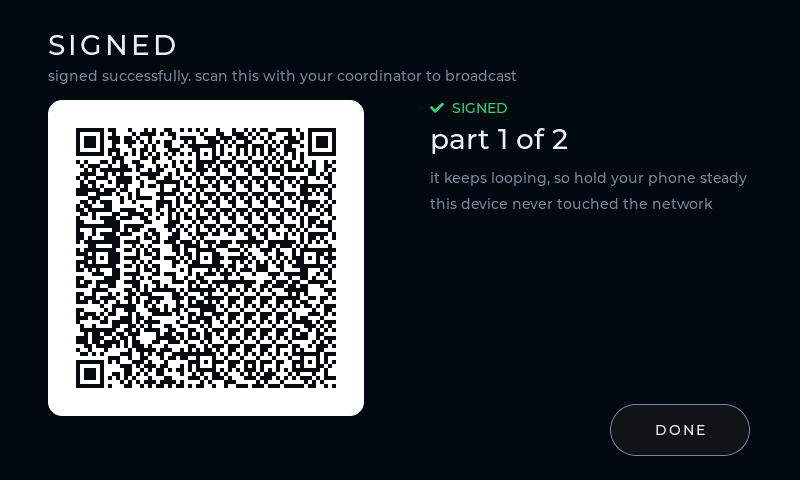
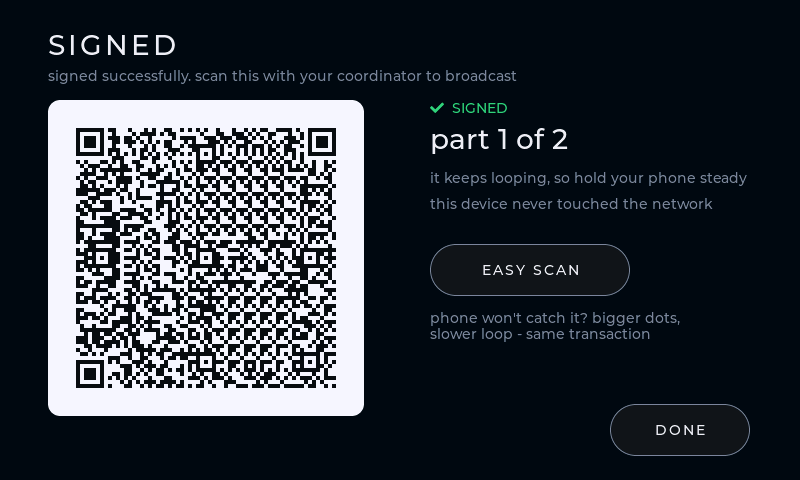
docs: refresh screenshots to current firmware + add safety/learn shots
Re-rendered the stale doc shots from current sim frames: Sign verify (YOU ARE
SENDING, RBF ?, no locktime clutter), signed-QR (EASY SCAN), Receive, and the
redesigned PAIR/export screen. Added two shots to the README warnings section:
a stacked-caution Sign screen with the I UNDERSTAND gate, and the fingerprint
explainer card with its WORDS + PASSPHRASE -> FINGERPRINT diagram.

diff --git a/README.md b/README.md
@@ -178,6 +178,17 @@ and a **?** opens a plain-words card explaining exactly why. Tap **?** anywhere 
 term is unfamiliar (RBF, fingerprint, coordinator, dust), or tap the fingerprint
 on the home screen, to learn as you go.
 
+<table>
+<tr>
+<td align="center"><img src="docs/readme/warn-caution.png" alt="Sign screen showing stacked cautions and an I UNDERSTAND gate" width="400"></td>
+<td align="center"><img src="docs/readme/learn-card.png" alt="Fingerprint explainer card with a WORDS + PASSPHRASE to FINGERPRINT diagram" width="400"></td>
+</tr>
+<tr>
+<td align="center"><sub><b>Cautions stack</b> — a short summary, a <b>?</b> for why, and <b>I UNDERSTAND</b> before you can sign</sub></td>
+<td align="center"><sub><b>Learn as you go</b> — plain-words cards, with a small diagram where a picture helps</sub></td>
+</tr>
+</table>
+
 ## Docs
 
 The full guides live in [`docs/`](docs/) for now and move to GitHub Pages once
